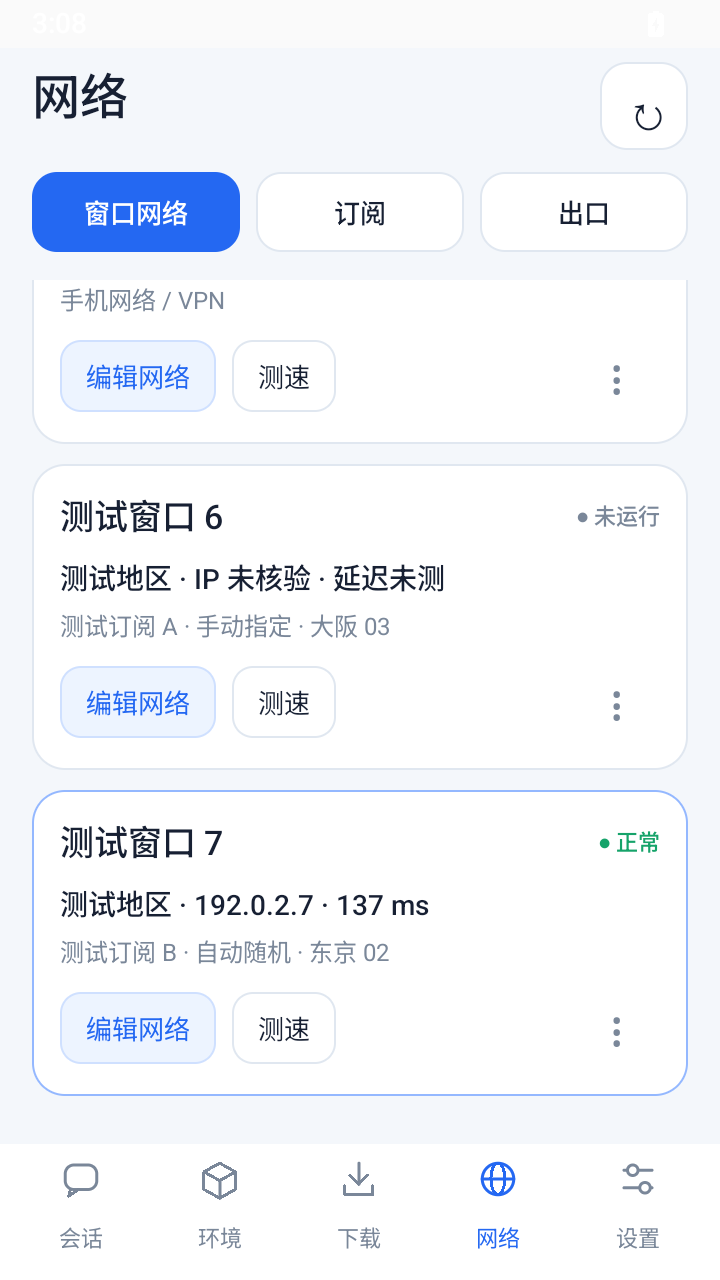
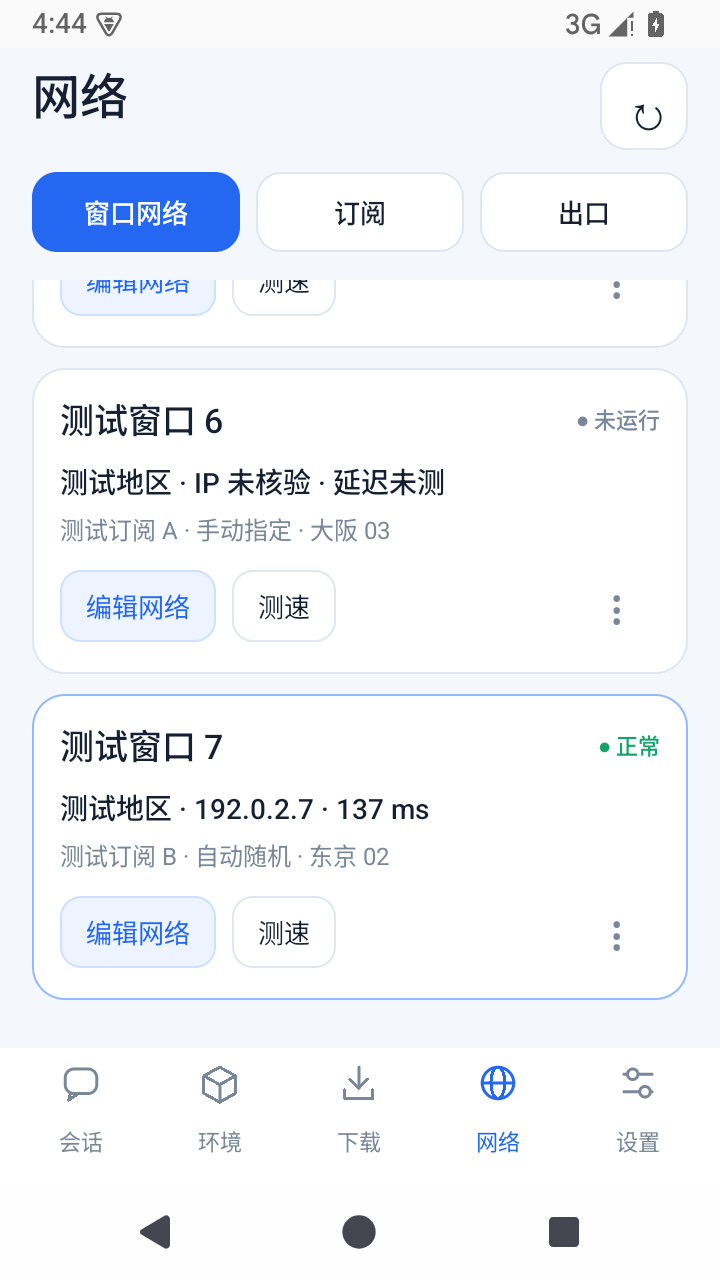
Correct phone-mode network metadata and record final UI validation

diff --git a/tests/NetworkReferenceTestActivity.java b/tests/NetworkReferenceTestActivity.java
@@ -13,7 +13,7 @@ public class NetworkReferenceTestActivity extends Activity {
   void seed(){try{
     providerA=provider("大阪 03","大阪 01");providerB=provider("东京 02","首尔");config6=config("https://subscription.example.invalid/a","manual","Entry|大阪 03");config7=J.parse(config6.toString());
     for(int slot:new int[]{6,7}){Context c=Profiles.context(this,slot);SecretStore vault=new SecretStore(c);vault.save(slot==6?config6:config7);vault.put("subscription",providerA);vault.put("subscription-meta",J.obj("urlHash",NativeNetwork.hash(config6.optString("subscriptionUrl"))).toString().getBytes(StandardCharsets.UTF_8));vault.put("subscription-ui",J.obj("urlHash",NativeNetwork.hash(config6.optString("subscriptionUrl")),"nodes",J.arr("Entry|大阪 03","Entry|大阪 01")).toString().getBytes(StandardCharsets.UTF_8));c.getSharedPreferences("chat",0).edit().putString("networkMode","internal").putBoolean("networkConfigured",true).putString("draft","profile-"+slot+"-draft").commit();ProfileCatalog.get(this).created(slot);ProfileCatalog.get(this).rename(slot,"测试窗口 "+slot);}
-    catalog=new NetworkCatalog(this);first=catalog.subscription(NativeNetwork.hash(config6.optString("subscriptionUrl")));second=catalog.addSubscription("测试订阅 B","https://subscription.example.invalid/b");
+    catalog=new NetworkCatalog(this);first=catalog.subscription(NativeNetwork.hash(config6.optString("subscriptionUrl")));second=catalog.addSubscription("测试订阅 B","https://subscription.example.invalid/b");if(getIntent().getBooleanExtra("ipcOnly",false)){catalog.parsed(first.optString("id"),J.arr("Entry|大阪 03","Entry|大阪 01"),providerA,0);catalog.parsed(second.optString("id"),J.arr("Entry|东京 02","Entry|首尔"),providerB,0);handler.post(()->{ui.catalog=catalog;ui.windows=WindowNetworkState.windows(this);ui.show(0);startActivity(new Intent(this,NetworkBridgeProbeActivity.class));awaitProbe(0);});return;}
     byte[] before=new SecretStore(Profiles.context(this,7)).get("network");
     NativeNetwork.previewSubscription(Profiles.context(this,0),first.optString("url"),providerA,(ok,message,nodes,bytes)->{try{check("Existing Mihomo parser reads cached subscription A",ok&&EntrySelection.strings(nodes).equals(Arrays.asList("Entry|大阪 03","Entry|大阪 01")));check("Parsing A leaves window config bytes unchanged",Arrays.equals(before,new SecretStore(Profiles.context(this,7)).get("network")));if(!ok)throw new IOException(message);catalog.parsed(first.optString("id"),nodes,bytes,0);parseB(before);}catch(Exception e){failure(e);}});
   }catch(Exception e){failure(e);}}
@@ -31,6 +31,8 @@ public class NetworkReferenceTestActivity extends Activity {
     List<String> all=Arrays.asList("Entry|东京 02","Entry|首尔","Entry|大阪 03");check("Runtime candidate list excludes unchecked and foreign nodes",EntrySelection.allowed(candidate,all).equals(Collections.singletonList("Entry|东京 02")));
     candidate.put("entryMode","manual");check("Manual mode exposes exactly the selected entry to recovery",EntrySelection.allowed(candidate,all).equals(Collections.singletonList("Entry|东京 02")));
     String regex=EntrySelection.filter(Arrays.asList("Entry|a.b+(x)","Entry|other"));check("Controller group filter treats node names literally","Entry|a.b+(x)".matches(regex)&&!"Entry|axbxxxx".matches(regex));
+    WindowNetworkState phone=new WindowNetworkState(this,ProfileCatalog.get(this).item(7),config7,J.obj("mode","external","configured",true,"at",System.currentTimeMillis(),"connected",true,"ip","192.0.2.7","exitId",NetworkCatalog.exitId(config7)),true,System.currentTimeMillis());check("Phone network never borrows region or IP from a previous fixed exit",!phone.internal&&phone.region.isEmpty()&&phone.ip.isEmpty());
+    Context c=Profiles.context(this,0);String beforeMode=c.getSharedPreferences("chat",0).getString("networkMode","external");NetworkBridgeProbeActivity.Fixture prior=new NetworkBridgeProbeActivity.Fixture(c);prior.ready=true;prior.recoveryBlocked=true;try{c.getSharedPreferences("chat",0).edit().putString("networkMode","external").commit();JSONObject idle=WindowNetworkState.live(null,prior);check("Phone mode without a browser session never reports the old proxy as connected or blocked",!idle.optBoolean("connected")&&!idle.optBoolean("blocked")&&idle.optString("issue").isEmpty());}finally{c.getSharedPreferences("chat",0).edit().putString("networkMode",beforeMode).commit();prior.worker.shutdownNow();prior.probes.shutdownNow();prior.closers.shutdownNow();prior.traffic.reader.shutdownNow();}
     check("Library has no global default exit setting",!catalog.data.has("defaultExit"));check("No ChatSession or account WebView is created for metadata",ChatSession.peek()==null);
     ui.catalog=catalog;ui.windows=WindowNetworkState.windows(this);ui.show(0);handler.postDelayed(()->uiChecks(),300);
   }
@@ -47,12 +49,12 @@ public class NetworkReferenceTestActivity extends Activity {
     ui.select(1);check("Subscription tab contains library entries only",text(ui.box).contains("测试订阅 A")&&text(ui.box).contains("测试订阅 B")&&!text(ui.box).contains("测试窗口 7"));ui.select(2);check("Exit tab never offers a global default",!text(ui.box).contains("默认出口")&&text(ui.box).contains("测试固定出口"));
     startActivity(new Intent(this,NetworkBridgeProbeActivity.class));awaitProbe(0);
   }catch(Exception e){failure(e);}}
-  void awaitProbe(int tries){NetworkBridge.worker.execute(()->{boolean ready=false;try{Bundle state=getContentResolver().call(NetworkBridge.uri(this,7),"state",null,null);ready=state!=null&&J.parse(state.getString("json","{}")).optString("ip").equals("192.0.2.7");}catch(Exception ignored){}final boolean connected=ready;handler.post(()->{if(connected)bridgeChecks();else if(tries<100)handler.postDelayed(()->awaitProbe(tries+1),300);else failure(new IOException("Profile fixture did not initialize"));});});}
+  void awaitProbe(int tries){NetworkBridge.worker.execute(()->{boolean ready=false;try{Bundle state=getContentResolver().call(NetworkBridge.uri(this,7),"state",null,null);JSONObject value=J.parse(state==null?"{}":state.getString("json","{}"));ready=value.optString("ip").equals("192.0.2.7");if(tries%10==0)J.write(new File(getFilesDir(),"network-fixture-readiness.json"),value.toString());}catch(Exception ignored){}final boolean connected=ready;handler.post(()->{if(connected)bridgeChecks();else if(tries<100)handler.postDelayed(()->awaitProbe(tries+1),300);else failure(new IOException("Profile fixture did not initialize"));});});}
   void bridgeChecks(){NetworkBridge.run(this,7,"apply",config7,"invalid-baseline",(ok,message,snapshot)->{try{check("Stale UI candidate is rejected before writing",!ok&&new SecretStore(Profiles.context(this,7)).settings().toString().equals(config7.toString()));check("Private dispatch returns state from requested profile",snapshot.optString("ip").equals("192.0.2.7"));applyChecks();}catch(Exception e){failure(e);}});}
   void applyChecks()throws Exception{
     ui.windows=WindowNetworkState.windows(this);NetworkWorkspaceUi.EditorSession editor=ui.edit(item(7));editor.draft.mode="random";editor.draft.subscription(second.optString("id"),catalog);editor.draft.pool.add("Entry|东京 02");editor.draft.randomize(new Random(1));editor.refresh.run();editor.dialog.primary().performClick();pollApplied(editor,0);
   }
-  void pollApplied(NetworkWorkspaceUi.EditorSession editor,int tries){handler.postDelayed(()->{try{JSONObject actual=new SecretStore(Profiles.context(this,7)).settings();if((!actual.optString("subscriptionUrl").equals(second.optString("url"))||editor.dialog.isShowing())&&tries<100){pollApplied(editor,tries+1);return;}check("Save-and-apply writes the candidate to the intended window",actual.optString("subscriptionUrl").equals(second.optString("url"))&&actual.optString("entry").equals("Entry|东京 02"));check("Saving profile 7 leaves profile 6 untouched",new SecretStore(Profiles.context(this,6)).settings().toString().equals(config6.toString()));check("Applying a network candidate preserves per-profile chat drafts",Profiles.context(this,7).getSharedPreferences("chat",0).getString("draft","").equals("profile-7-draft")&&Profiles.context(this,6).getSharedPreferences("chat",0).getString("draft","").equals("profile-6-draft"));check("Applied subscription cache matches selected subscription",new JSONObject(new String(new SecretStore(Profiles.context(this,7)).get("subscription-meta"),StandardCharsets.UTF_8)).optString("urlHash").equals(second.optString("id")));if(editor.dialog.isShowing())editor.dialog.dismiss();NetworkBridge.run(this,7,"measure",null,null,(ok,message,state)->{check("Window speed action calls existing complete-chain measurement",ok&&message.contains("137 ms")&&state.optInt("delay")==137);check("Measuring does not alter configured entry",state.optString("entry").equals("Entry|东京 02"));write();});}catch(Exception e){failure(e);}},300);}
+  void pollApplied(NetworkWorkspaceUi.EditorSession editor,int tries){handler.postDelayed(()->{try{JSONObject actual=new SecretStore(Profiles.context(this,7)).settings();if((!actual.optString("subscriptionUrl").equals(second.optString("url"))||editor.dialog.isShowing())&&tries<100){pollApplied(editor,tries+1);return;}J.write(new File(getFilesDir(),"network-apply-observed.json"),J.obj("url",actual.optString("subscriptionUrl"),"entry",actual.optString("entry"),"modal",editor.dialog.isShowing(),"feedback",text(editor.dialog.body)).toString());check("Save-and-apply writes the candidate to the intended window",actual.optString("subscriptionUrl").equals(second.optString("url"))&&actual.optString("entry").equals("Entry|东京 02"));check("Saving profile 7 leaves profile 6 untouched",new SecretStore(Profiles.context(this,6)).settings().toString().equals(config6.toString()));check("Applying a network candidate preserves per-profile chat drafts",Profiles.context(this,7).getSharedPreferences("chat",0).getString("draft","").equals("profile-7-draft")&&Profiles.context(this,6).getSharedPreferences("chat",0).getString("draft","").equals("profile-6-draft"));check("Applied subscription cache matches selected subscription",new JSONObject(new String(new SecretStore(Profiles.context(this,7)).get("subscription-meta"),StandardCharsets.UTF_8)).optString("urlHash").equals(second.optString("id")));if(editor.dialog.isShowing())editor.dialog.dismiss();NetworkBridge.run(this,7,"measure",null,null,(ok,message,state)->{check("Window speed action calls existing complete-chain measurement",ok&&message.contains("137 ms")&&state.optInt("delay")==137);android.util.Log.i("NetworkReferenceTest","MEASURE_OBSERVED entry="+state.optString("entry"));check("Measuring does not alter configured entry",state.optString("entry").equals("Entry|东京 02"));write();});}catch(Exception e){failure(e);}},300);}
   void failure(Exception e){if(Looper.myLooper()!=Looper.getMainLooper()){handler.post(()->failure(e));return;}android.util.Log.e("NetworkReferenceTest","Scenario failed",e);check("Scenario completed without error: "+e.getClass().getSimpleName()+" · "+e.getMessage(),false);write();}
   void write(){if(written)return;written=true;try{int passed=0;for(int i=0;i<checks.length();i++)if(checks.getJSONObject(i).optBoolean("pass"))passed++;J.write(new File(getFilesDir(),"network-reference-results.json"),J.obj("passed",passed,"total",checks.length(),"checks",checks,"elapsedMs",SystemClock.elapsedRealtime()-began,"scope","Real encrypted saves and private profile IPC; real cached-subscription Mihomo parsing; network connection callbacks/latency use isolated test fixtures. No real account or public proxy reachability is claimed.").toString(2));}catch(Exception ignored){}ui.catalog=new NetworkCatalog(this);ui.windows=WindowNetworkState.windows(this);ui.focus(7);ui.show(0);}
   @Override public void onDestroy(){if(ui!=null)ui.close();super.onDestroy();}

diff --git a/app/src/main/java/local/pocketchat/WindowNetworkState.java b/app/src/main/java/local/pocketchat/WindowNetworkState.java
@@ -7,7 +7,7 @@ final class WindowNetworkState {
   WindowNetworkState(Context c,JSONObject row,JSONObject config,JSONObject runtime,boolean live,long now){
     this.slot=row.optInt("slot");name=row.optString("name");this.config=config;this.runtime=runtime;this.now=now;SharedPreferences prefs=Profiles.context(c,slot).getSharedPreferences("chat",0);internal="internal".equals(runtime.optString("mode",prefs.getString("networkMode","external")));boolean configured=runtime.has("configured")?runtime.optBoolean("configured"):prefs.getBoolean("networkConfigured",false);boolean fresh=live&&now>=runtime.optLong("at")-60000&&now-runtime.optLong("at")<45000;
     connected=fresh&&runtime.optBoolean("connected");state=!configured?"未配置":!fresh?"未运行":runtime.optBoolean("offline")?"离线":runtime.optBoolean("blocked")?"出口异常":runtime.optBoolean("starting")?"连接中":!runtime.optString("issue").isEmpty()||runtime.optLong("delayAt")>0&&now-runtime.optLong("delayAt")<90000&&runtime.optInt("delay",-1)<=0&&internal?"需检查":connected?"正常":"未连接";
-    region=runtime.optBoolean("blocked")?"":config.optString("exitRegion");subscription=internal?NetworkCatalog.subscriptionName(config):(runtime.has("proxy")?runtime.optBoolean("proxy"):!prefs.getString("proxy","").isEmpty())?"应用代理":"手机网络 / VPN";
+    region=internal&&!runtime.optBoolean("blocked")?config.optString("exitRegion"):"";subscription=internal?NetworkCatalog.subscriptionName(config):(runtime.has("proxy")?runtime.optBoolean("proxy"):!prefs.getString("proxy","").isEmpty())?"应用代理":"手机网络 / VPN";
     entryMode="manual".equals(config.optString("entryMode"))?"手动指定":"random".equals(config.optString("entryMode"))?"自动随机":"自动选择";
     boolean sameExit=internal&&NetworkCatalog.exitId(config).equals(runtime.optString("exitId")),sameSubscription=internal&&NativeNetwork.hash(config.optString("subscriptionUrl")).equals(runtime.optString("subscriptionId"));
     ip=sameExit?runtime.optBoolean("blocked")&&!runtime.optString("observedIp").isEmpty()?runtime.optString("observedIp"):runtime.optString("ip"):"";entry=sameSubscription?runtime.optString("entry"):config.optString("entry");
@@ -18,7 +18,7 @@ final class WindowNetworkState {
   String mainline(){return (region.isEmpty()?"地区未标注":region)+" · "+(ip.isEmpty()?"IP 未核验":connected?ip:"上次 "+ip)+" · "+latency;}
   String strip(){return mainline()+" · "+(state.equals("正常")?"已连接":state);}
   String subline(){if(!internal)return subscription;if(config.optString("subscriptionUrl").isEmpty())return "尚未选择订阅与固定出口";return subscription+" · "+entryMode+" · "+(entry.isEmpty()?"入口待选择":NativeNetwork.display(entry));}
-  static JSONObject live(ChatSession s,NativeNetwork n){long now=System.currentTimeMillis();SharedPreferences prefs=n.context.getSharedPreferences("chat",0);boolean internal="internal".equals(prefs.getString("networkMode","external"));JSONObject config=n.settings==null?new JSONObject():n.settings;JSONObject q=n.quality.stats(n.currentEntry,now);return J.obj("at",now,"pid",android.os.Process.myPid(),"mode",prefs.getString("networkMode","external"),"configured",prefs.getBoolean("networkConfigured",false),"proxy",!prefs.getString("proxy","").isEmpty(),"connected",s==null?n.ready&&n.coreAlive():s.networkReady&&!s.offline&&(!internal||n.ready&&n.coreAlive()),"offline",s!=null&&s.offline,"starting",n.starting||s!=null&&s.connecting,"blocked",internal&&n.recoveryBlocked,"issue",s==null?n.recoveryBlocked?n.message:"":s.networkIssue,"exitId",internal?n.fingerprint:"","subscriptionId",internal?NativeNetwork.hash(config.optString("subscriptionUrl")):"","ip",internal?n.exitIp:"","observedIp",internal?n.observedExitIp:"","verifiedAt",internal?n.lastVerified:0,"entry",internal?n.currentEntry:"","delay",internal?q.optInt("latest",-1):-1,"delayAt",internal?q.optLong("lastAt"):0,"delayEntry",internal?n.currentEntry:"");}
+  static JSONObject live(ChatSession s,NativeNetwork n){long now=System.currentTimeMillis();SharedPreferences prefs=n.context.getSharedPreferences("chat",0);boolean internal="internal".equals(prefs.getString("networkMode","external"));JSONObject config=n.settings==null?new JSONObject():n.settings;JSONObject q=n.quality.stats(n.currentEntry,now);return J.obj("at",now,"pid",android.os.Process.myPid(),"mode",prefs.getString("networkMode","external"),"configured",prefs.getBoolean("networkConfigured",false),"proxy",!prefs.getString("proxy","").isEmpty(),"connected",s==null?internal&&n.ready&&n.coreAlive():s.networkReady&&!s.offline&&(!internal||n.ready&&n.coreAlive()),"offline",s!=null&&s.offline,"starting",n.starting||s!=null&&s.connecting,"blocked",internal&&n.recoveryBlocked,"issue",s==null?internal&&n.recoveryBlocked?n.message:"":s.networkIssue,"exitId",internal?n.fingerprint:"","subscriptionId",internal?NativeNetwork.hash(config.optString("subscriptionUrl")):"","ip",internal?n.exitIp:"","observedIp",internal?n.observedExitIp:"","verifiedAt",internal?n.lastVerified:0,"entry",internal?n.currentEntry:"","delay",internal?q.optInt("latest",-1):-1,"delayAt",internal?q.optLong("lastAt"):0,"delayEntry",internal?n.currentEntry:"");}
   static WindowNetworkState current(MainActivity a){NativeNetwork n=NativeNetwork.get(a);JSONObject config=n.settings==null?new JSONObject():n.settings;return new WindowNetworkState(a,ProfileCatalog.get(a).item(Profiles.slot(a)),config,live(a.session,n),true,System.currentTimeMillis());}
   static JSONArray windows(Context c){JSONArray out=new JSONArray(),rows=ProfileCatalog.get(c).list();Set<Integer> processes=new HashSet<>();try{List<ActivityManager.RunningAppProcessInfo> all=c.getSystemService(ActivityManager.class).getRunningAppProcesses();if(all!=null)for(ActivityManager.RunningAppProcessInfo p:all)if(p.uid==android.os.Process.myUid())for(int slot=0;slot<Profiles.MAX;slot++)if(p.processName.equals(c.getPackageName()+(slot==0?"":":profile"+slot)))processes.add(slot);}catch(Exception ignored){}
     for(int i=0;i<rows.length();i++){JSONObject row=rows.optJSONObject(i);if(!row.optBoolean("created"))continue;int slot=row.optInt("slot");SecretStore vault=new SecretStore(Profiles.context(c,slot));JSONObject state=new JSONObject();try{byte[] raw=vault.get("network-ui");if(raw!=null)state=J.parse(new String(raw,StandardCharsets.UTF_8));}catch(Exception ignored){}
@@ -26,5 +26,5 @@ final class WindowNetworkState {
       out.put(J.obj("row",row,"config",vault.settings(),"runtime",state,"live",running));}return out;
   }
   static final java.util.concurrent.ExecutorService snapshots=java.util.concurrent.Executors.newSingleThreadExecutor();static long savedAt;static String savedSignature="";
-  static synchronized void save(Context c,ChatSession s,NativeNetwork n){if(!n.root.getName().equals("network-runtime"))return;try{JSONObject value=live(s,n);String signature=value.optBoolean("connected")+"|"+value.optBoolean("starting")+"|"+value.optBoolean("blocked")+"|"+value.optString("issue")+"|"+value.optString("ip")+"|"+value.optString("entry")+"|"+value.optLong("delayAt");long now=System.currentTimeMillis();if(signature.equals(savedSignature)&&now-savedAt<5000)return;savedAt=now;savedSignature=signature;snapshots.execute(()->{try{new SecretStore(c).put("network-ui",value.toString().getBytes(StandardCharsets.UTF_8));}catch(Exception ignored){}});}catch(Exception ignored){}}
+  static synchronized void save(Context c,ChatSession s,NativeNetwork n){if(!n.root.getName().equals("network-runtime"))return;try{JSONObject value=live(s,n);String signature=value.optString("mode")+"|"+value.optBoolean("configured")+"|"+value.optBoolean("proxy")+"|"+value.optBoolean("connected")+"|"+value.optBoolean("starting")+"|"+value.optBoolean("blocked")+"|"+value.optString("issue")+"|"+value.optString("ip")+"|"+value.optString("entry")+"|"+value.optLong("delayAt");long now=System.currentTimeMillis();if(signature.equals(savedSignature)&&now-savedAt<5000)return;savedAt=now;savedSignature=signature;snapshots.execute(()->{try{new SecretStore(c).put("network-ui",value.toString().getBytes(StandardCharsets.UTF_8));}catch(Exception ignored){}});}catch(Exception ignored){}}
 }

diff --git a/tests/NetworkBridgeProbeActivity.java b/tests/NetworkBridgeProbeActivity.java
@@ -4,10 +4,10 @@ import android.app.Activity;import android.content.*;import android.os.Bundle;im
 /** Test-only connection fixture for verifying dispatch to profile 7 without creating a WebView. */
 public class NetworkBridgeProbeActivity extends Activity {
   @Override protected void attachBaseContext(Context base){super.attachBaseContext(new ProfileContext(base,7));}
-  @Override public void onCreate(Bundle state){super.onCreate(state);if(!getPackageName().endsWith(".test"))throw new IllegalStateException();try{Fixture network=new Fixture(this);java.lang.reflect.Field field=NativeNetwork.class.getDeclaredField("instance");field.setAccessible(true);field.set(null,network);network.connected();}catch(Exception e){throw new IllegalStateException(e);}finish();}
+  @Override public void onCreate(Bundle state){super.onCreate(state);if(!getPackageName().endsWith(".test"))throw new IllegalStateException();try{Fixture network=new Fixture(this);java.lang.reflect.Field field=NativeNetwork.class.getDeclaredField("instance");field.setAccessible(true);network.connected();synchronized(NativeNetwork.class){field.set(null,network);}}catch(Exception e){throw new IllegalStateException(e);}finish();}
   static final class Fixture extends NativeNetwork {
     Fixture(Context c){super(c,new File(c.getNoBackupFilesDir(),"network-runtime"),false);}
-    void connected()throws Exception{settings=secrets.settings();JSONObject meta=J.parse(new String(secrets.get("subscription-ui"),StandardCharsets.UTF_8));names=EntrySelection.allowed(settings,EntrySelection.strings(meta.optJSONArray("nodes")));currentEntry=settings.optString("entry");fingerprint=NetworkCatalog.exitId(settings);exitIp="192.0.2.7";lastVerified=System.currentTimeMillis();ready=true;quality.configure("bridge-fixture:"+fingerprint+":"+NativeNetwork.hash(settings.optString("subscriptionUrl")));quality.record(currentEntry,137,System.currentTimeMillis());WindowNetworkState.save(context,null,this);J.write(new File(context.getFilesDir(),"network-bridge-probe.json"),J.obj("slot",Profiles.slot(context),"entry",currentEntry,"webViewCreated",ChatSession.peek()!=null,"config",settings).toString());}
+    void connected()throws Exception{context.getSharedPreferences("chat",0).edit().putString("networkMode","internal").putBoolean("networkConfigured",true).commit();settings=secrets.settings();JSONObject meta=J.parse(new String(secrets.get("subscription-ui"),StandardCharsets.UTF_8));names=EntrySelection.allowed(settings,EntrySelection.strings(meta.optJSONArray("nodes")));currentEntry=settings.optString("entry");fingerprint=NetworkCatalog.exitId(settings);exitIp="192.0.2.7";lastVerified=System.currentTimeMillis();ready=true;quality.configure("bridge-fixture:"+fingerprint+":"+NativeNetwork.hash(settings.optString("subscriptionUrl")));quality.record(currentEntry,137,System.currentTimeMillis());WindowNetworkState.save(context,null,this);J.write(new File(context.getFilesDir(),"network-bridge-probe.json"),J.obj("slot",Profiles.slot(context),"pid",android.os.Process.myPid(),"entry",currentEntry,"webViewCreated",ChatSession.peek()!=null,"config",settings).toString());}
     @Override boolean coreAlive(){return ready;}
     @Override int probe(String name){return 137;}
     @Override void restart(Callback callback){try{connected();main.post(()->callback.done(true,"Fixture connected"));}catch(Exception e){main.post(()->callback.done(false,"Fixture rejected"));}}

diff --git a/verification/chat-network-reference/README.md b/verification/chat-network-reference/README.md
@@ -6,18 +6,26 @@
 
 | 检查 | 结果 | 范围 |
 | --- | --- | --- |
-| 网络页面与候选配置 | 41 / 41 通过 | 真实 Mihomo 缓存解析与控制器；随机池 / 手动入口约束；三个 Tab、全部已创建窗口、居中弹窗；取消与候选不写入；过期候选拒绝；真实加密保存和第七窗口私有 IPC；其他窗口配置与聊天草稿保留。 |
+| 网络页面与候选配置 | 43 / 43 通过 | 真实 Mihomo 缓存解析与控制器；随机池 / 手动入口约束；三个 Tab、全部已创建窗口、居中弹窗；取消与候选不写入；过期候选拒绝；真实加密保存和第七窗口私有 IPC；其他窗口配置与聊天草稿保留。 |
 | 原启动选路 | 22 / 22 通过 | 现有启动、恢复、记忆入口、固定出口不一致阻断等受控场景。 |
-| 原恢复优先级 | 15 / 15 复测通过 | 实际本机阻塞 socket 的取消、线程池恢复、入口保留及出口核验。复测恢复 617 ms。 |
-| 会话模式切换与网页草稿 | 未完成 | 最终测试包未生成结果；WebView 渲染进程出现 SIGTRAP，随后宿主被 Chromium 终止。 |
+| 原恢复优先级 | 14 / 15，时延门槛未通过 | 实际本机阻塞 socket 的取消、线程池恢复、入口保留及出口核验。最终复测恢复 2,056 ms，超过原 800 ms 门槛；其余功能检查通过。 |
+| 会话模式切换与网页草稿 | 未完成 | 本轮此前的 1.5.3 测试包未生成结果；WebView 渲染进程出现 SIGTRAP，随后宿主被 Chromium 终止。 |
 | 原网页偏好重启保留 | 无法判定 | 观察到 1 / 3 的原始结果，但前置模式切换没有完成，原网页偏好没有按前置步骤写入，因此不能把该结果作为独立回归结论。原始结果保留。 |
 | 模块切换与网页草稿 | 未完成 | 未生成完整结果；渲染进程及宿主原生崩溃记录见 `webview-native-crash.txt`。 |
 
-合计 78 项网络相关检查通过。第一次恢复优先级测量为 1,330 ms，功能检查通过但未满足 800 ms 门槛；保留在 `network-priority-first-attempt.json`，没有放宽断言。完整网络场景首次 240 秒超时，延长等待后 267,507 ms 完成并通过全部 41 项。上述差异均保留在 `runtime-summary.json`。
+最终 80 项网络相关检查中，79 项通过、1 项恢复时延门槛未通过。第一次恢复优先级测量为 1,330 ms，功能检查通过但未满足 800 ms 门槛；保留在 `network-priority-first-attempt.json`，没有放宽断言。完整网络场景首次 240 秒超时，延长等待后 267,507 ms 完成并通过当时的 41 项；增加手机网络状态检查后的最终场景 160,044 ms 完成，43 项通过。上述差异均保留在 `runtime-summary.json`。
+
+测试连接夹具最初与真实网络单例初始化存在竞争，曾出现状态为空或读取旧入口。夹具注入改为在同一锁内完成，并明确设置测试网络方式；单独的 8 项跨窗口保存检查和最终完整场景均通过。此前 35 / 36 与 41 / 43 的失败记录保留在 `network-reference-fixture-first-attempt.json`、`network-reference-fixture-save-attempt.json`，没有调整产品保存逻辑或放宽断言。
+
+启动选路最终首次运行是 21 / 22，出口核验顺序检查未通过；在原断言下复测 22 / 22，通过记录与首次原始结果同时保留。
+
+恢复优先级最终首次运行恢复耗时为 1,456 ms，超过原 800 ms 门槛；首次记录保存在 `network-priority-final-first-attempt.json`，随后相同断言下复测为 2,056 ms，仍未达标；未放宽断言或把该项标记通过。
 
 ## 环境与边界
 
 使用 Android 15 / API 35、x86_64、360 dp 宽的软件模拟器，未使用 KVM。为排查系统和进程启动超时，模拟器超时倍率设为 8 并重启 Android 框架；曾出现 System UI 无响应。WebView 原生崩溃的触发原因未在本轮确认。
+
+另外安装了不包含项目代码的最小 WebView 探针，清除旧结果后重新启动，回报 `renderer-gone:didCrash=true`。该探针只加载本机测试文字并调用 JavaScript 桥，不访问账号或代理。当前实例的基础渲染回归也未能完成。
 
 网络测试的 **订阅解析、控制器入口范围、加密配置读写与跨窗口分发是真实路径**。代理连接成功回调和 `137 ms` 测量值使用隔离测试夹具；没有借此声称验证了真实公网代理、真实 ChatGPT 登录或用户手机。截图中的窗口名称、地区、IP 和订阅均为测试数据。
 
@@ -38,8 +46,9 @@
 - `artifacts.json`：版本、原签名证书、APK 哈希、字节数与构建检查。
 - `installed-test-apk.json` / `installed-release.json`：实际安装文件核对和覆盖更新范围。
 - `runtime-summary.json`：本轮结果及首次尝试。
-- `network-reference-results.json`、`startup-route-results.json`、`network-priority-results.json`：78 项逐项结果。
+- `network-reference-results.json`、`startup-route-results.json`、`network-priority-results.json`：80 项逐项结果。
 - `network-priority-first-attempt.json`：首次耗时门槛失败的记录。
+- `network-reference-fixture-first-attempt.json` / `network-reference-fixture-save-attempt.json`：测试夹具同步修正前的失败记录。
 - `compact-mode-restore-results.json`：前置未完成时的原始恢复结果。
 - `webview-native-crash.txt`：WebView 渲染进程与宿主退出的诊断记录。
 - `built-source-files.json`：本轮编译输入哈希。

diff --git a/docs/CHANGELOG-v1.5.3.md b/docs/CHANGELOG-v1.5.3.md
@@ -19,6 +19,7 @@
 - 自动随机只使用勾选池；手动指定只使用所选节点；更换订阅会清除旧入口和旧池；固定出口独立选择，不参与随机。
 - 订阅与出口库汇总已有环境的配置，并使用原有加密存储保存库数据。订阅详情更新可选入口，不直接改变任何窗口的当前连接。没有全局默认出口。
 - 旧配置不会在打开页面时自动转换或保存。未保存编辑的旧配置继续使用原有入口选择方式。
+- 切到手机网络或应用代理后，不沿用旧固定出口的地区、IP、连接成功或异常状态；没有会话时明确等待窗口连接。网络方式改变会更新 UI 快照。
 
 ## 复用与必要适配
 
@@ -54,8 +55,8 @@
 | `build.ps1` | 更新 APK 文件名，测试包使用独立 Provider authority，注册隔离测试活动。 |
 | `tests/CompactModeTestActivity.java` | 核对新顶部、网络定位和原模式切换 / 草稿保留。 |
 | `tests/DesignUiTestActivity.java` | 更新顶部和三个网络 Tab 的旧界面断言。 |
-| `tests/NetworkReferenceTestActivity.java` | 用真实 Mihomo 解析 / 选择器和真实加密保存 / 跨进程分发验证候选、随机池、取消、保存及页面。 |
-| `tests/NetworkBridgeProbeActivity.java` | 仅测试包使用的第七窗口连接回调夹具，避免依赖私人代理或账号。 |
+| `tests/NetworkReferenceTestActivity.java` | 用真实 Mihomo 解析 / 选择器和真实加密保存 / 跨进程分发验证候选、随机池、取消、保存及页面；增加手机网络状态检查与可单独复跑的 IPC 场景。 |
+| `tests/NetworkBridgeProbeActivity.java` | 仅测试包使用的第七窗口连接回调夹具；与真实单例初始化同步，避免夹具被同时创建的实例覆盖。 |
 | `docs/ui/yuanying_ui_reference.html` | 保存用户提供的视觉参考，未加入运行时 assets。 |
 | `docs/CHANGELOG-v1.5.3.md` | 本轮行为、边界和逐文件修改说明。 |
 | `README.md` | 当前版本、下载入口和三栏网络功能说明。 |
